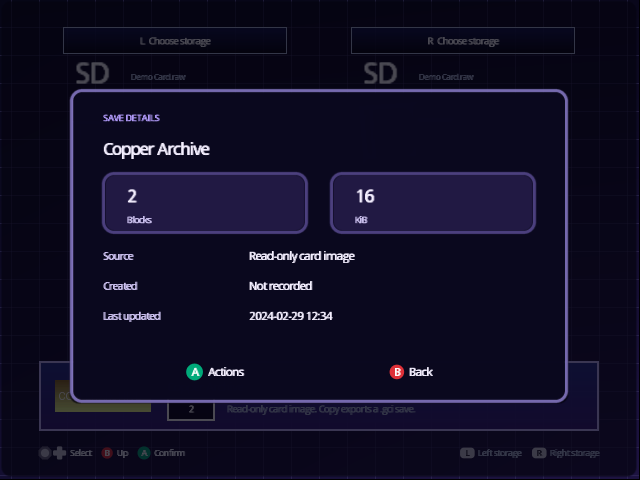
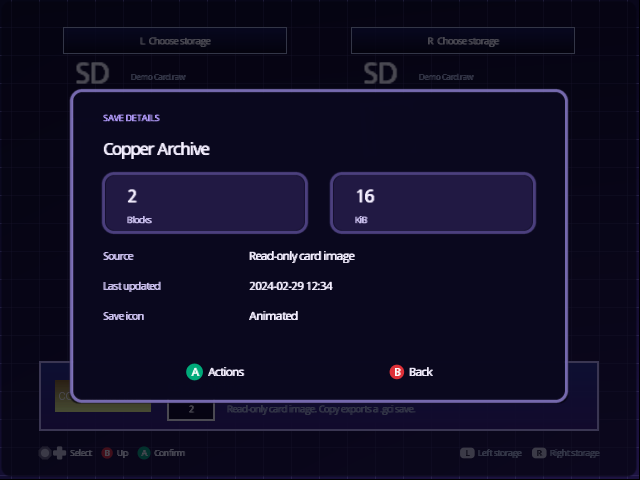
Refresh save details captures and integrated change notes

Changed region(s): [[0.375, 0.5625, 0.5312, 0.6875], [0.1562, 0.5625, 0.25, 0.6875]]

diff --git a/buildtools/ui/emulator/test_emulator.py b/buildtools/ui/emulator/test_emulator.py
@@ -737,8 +737,10 @@ class Screen(unittest.TestCase):
             self.assertFalse(run.same_text(*kib), shape + " actually distinguishes 16 from 8")
             dates = [run.text_mask(frame, run.SAVE_DETAILS_UPDATED_BOX) for frame in gray]
             self.assertFalse(run.same_text(*dates), "recorded date and Unknown differ")
-            created = [run.text_mask(frame, run.SAVE_DETAILS_CREATED_BOX) for frame in gray]
-            self.assertTrue(run.same_text(*created), "both creation values are Not recorded")
+            metadata = [run.text_mask(frame, run.SAVE_DETAILS_ICON_BOX) for frame in gray]
+            self.assertTrue(all(run.has_label(value) for value in metadata),
+                            "the save icon status must be visible in both native captures")
+            self.assertFalse(run.same_text(*metadata), "Animated and None stored differ")
 
     def test_actual_popup_value_only_boxes_reject_erasure_and_label_only_frames(self):
         from PIL import Image
@@ -746,8 +748,8 @@ class Screen(unittest.TestCase):
         fields = ((run.SAVE_DETAILS_BLOCKS_BOX, (122, 214, 302, 234), True),
                   (run.SAVE_DETAILS_SIZE_BOX, (350, 214, 528, 234), True),
                   (run.SAVE_DETAILS_SOURCE_BOX, (100, 244, 234, 270), False),
-                  (run.SAVE_DETAILS_CREATED_BOX, (100, 274, 234, 300), False),
-                  (run.SAVE_DETAILS_UPDATED_BOX, (100, 304, 234, 330), False))
+                  (run.SAVE_DETAILS_ICON_BOX, (100, 304, 234, 330), False),
+                  (run.SAVE_DETAILS_UPDATED_BOX, (100, 274, 234, 300), False))
         for name, wide in (("default-save-details-known.png", False),
                            ("default-save-details-unknown.png", False),
                            ("wide-save-details-known.png", True),
@@ -776,7 +778,7 @@ class Screen(unittest.TestCase):
             for value_box, _, numeric in fields:
                 predicate = run.has_save_number if numeric else run.has_label
                 self.assertFalse(predicate(run.text_mask(label_only, value_box)), (name, "labels only"))
-            for box in (run.SAVE_DETAILS_TITLE_BOX, run.SAVE_DETAILS_CREATED_BOX,
+            for box in (run.SAVE_DETAILS_TITLE_BOX, run.SAVE_DETAILS_ICON_BOX,
                         run.SAVE_DETAILS_UPDATED_BOX, run.SAVE_DETAILS_ACTIONS_BOX):
                 self.assertTrue(run.has_label(run.text_mask(gray, box)), (name, box))
             np.testing.assert_array_equal(rgb, original, "positive native capture remains untouched")

diff --git a/buildtools/ui/emulator/run.py b/buildtools/ui/emulator/run.py
@@ -125,8 +125,8 @@ SAVE_DETAILS_BLOCKS_BOX = (122, 178, 302, 212)
 SAVE_DETAILS_SOURCE_BOX = (246, 244, 540, 270)
 LIBRARY_SAVES_SUMMARY_BOX = (266, 204, 538, 224)
 LIBRARY_SAVES_UPDATED_BOX = (308, 224, 586, 241)
-SAVE_DETAILS_CREATED_BOX = (246, 274, 540, 300)
-SAVE_DETAILS_UPDATED_BOX = (246, 304, 540, 330)
+SAVE_DETAILS_ICON_BOX = (246, 304, 540, 330)
+SAVE_DETAILS_UPDATED_BOX = (246, 274, 540, 300)
 SAVE_DETAILS_ACTIONS_BOX = (104, 360, 536, 387)
 RAW_ICON_BOX = (68, 100, 120, 161)  # selected cell 0; excludes banner/info bar
 FOLDER_PAGE_TITLE_BOX = (48, 78, 300, 105)
@@ -1890,7 +1890,7 @@ class Route:
         self.check("A opens the save details panel", self.open_save_details())
         boxes = {"title": SAVE_DETAILS_TITLE_BOX, "blocks": SAVE_DETAILS_BLOCKS_BOX,
                  "size": SAVE_DETAILS_SIZE_BOX, "source": SAVE_DETAILS_SOURCE_BOX,
-                 "created": SAVE_DETAILS_CREATED_BOX, "updated": SAVE_DETAILS_UPDATED_BOX,
+                 "icon": SAVE_DETAILS_ICON_BOX, "updated": SAVE_DETAILS_UPDATED_BOX,
                  "actions": SAVE_DETAILS_ACTIONS_BOX}
         fields = {}
         for field, box in boxes.items():
@@ -1980,8 +1980,8 @@ class Route:
         unknown = self.save_details("virtual-cards-details-unknown")
         self.check("known and unknown save dates have different text",
                    not same_text(known["updated"], unknown["updated"]))
-        self.check("both saves report creation date as not recorded",
-                   same_text(known["created"], unknown["created"]))
+        self.check("animated and missing save icons have different status text",
+                   not same_text(known["icon"], unknown["icon"]))
         self.check("two-block and one-block save sizes have different text",
                    not same_text(known["blocks"], unknown["blocks"]))
         self.press("B")

diff --git a/docs/guide/memory-cards.md b/docs/guide/memory-cards.md
@@ -121,14 +121,14 @@ open Move, Copy and Erase. A dimmed action always explains why it can't be
 used.
 
 <p align="center">
-  <img alt="Copper Archive is the Save details headline. Separate metric cells show 2 Blocks and 16 KiB; aligned rows show Read-only card image, Created: Not recorded and Last updated: 2024-02-29 12:34. The footer has native A Actions and B Back button icons." src="images/memory-cards-details.png" width="640">
+  <img alt="Copper Archive is the Save details headline. Separate metric cells show 2 Blocks and 16 KiB; aligned rows show Read-only card image, Last updated: 2024-02-29 12:34 and Save icon: Animated. The footer has native A Actions and B Back button icons." src="images/memory-cards-details.png" width="640">
 </p>
 
 A save without a recorded update date shows **Unknown**. The dialog remains
 available when both columns hold read-only RAW images.
 
 <p align="center">
-  <img alt="Moonlit Lake’s Save details shows separate 1 Block and 8 KiB cells, Created: Not recorded and Last updated: Unknown." src="images/memory-cards-details-unknown.png" width="640">
+  <img alt="Moonlit Lake’s Save details shows separate 1 Block and 8 KiB cells, Last updated: Unknown and Save icon: None stored." src="images/memory-cards-details-unknown.png" width="640">
 </p>
 
 <p align="center">
@@ -136,10 +136,6 @@ available when both columns hold read-only RAW images.
 </p>
 
 A save on a physical memory card names its slot in **Source**.
-
-<p align="center">
-  <img alt="Copper Orchard’s details on simulated Slot A, with the Jet Black palette: 1 Block, 8 KiB, Source Slot A, Created Not recorded and Last updated 2026-09-21 14:13. Native A Actions and B Back icons remain visible." src="images/memory-cards-details-slot-a.png" width="640">
-</p>
 
 ## Move, copy and erase
 

diff --git a/AGENTS/journal.md b/AGENTS/journal.md
@@ -1,3 +1,21 @@
+## 2026-10-05 — Integrate save explanations, folder controls and installation guides
+
+Save details shows the recorded last-update date and the save icon's status.
+Animated, static and absent icons are distinguished, with clear messages for
+paused or unavailable previews. No creation date is invented: the save format
+has no separate field. Original animation decoding remains unchanged.
+
+Y on a Library folder opens its full path and color controls. A saves, B
+cancels and Y resets the color. Path identity includes its device prefix;
+settings writes preserve other preferences and restore prior colors on failure.
+The native folder route covers save, reopen, cancel and reset in all layouts.
+
+The README, walkthrough and package/release instructions now give exact loader
+filenames and card destinations, preservation, folder merging, first launch,
+updates and recovery. Focused host and sanitizer regressions pass. Fresh native
+save-details captures match the revised panel in both screen shapes; full
+integrated protected checks and console acceptance remain required.
+
 # Indigo development journal
 
 ## 2026-10-05 — Give Library folders a path and persistent color

diff --git a/CHANGELOG.md b/CHANGELOG.md
@@ -4,6 +4,25 @@ Versions follow [semantic versioning](https://semver.org/). Each release is a
 `vX.Y.Z` tag on `main`, and a release candidate before it is a `vX.Y.Z-rc.N`
 tag on `beta`. The newest changes are at the top until their release is named.
 
+## Unreleased
+
+### New
+
+- Press **Y Folder** on a Library folder to see its complete path and choose
+  a color. The color marks its card in every layout and is remembered by path.
+  Reset restores the default; B cancels changes.
+
+### Improved
+
+- Save details shows **Last updated** and **Save icon** instead of the empty
+  creation-date field. It distinguishes animated, static and missing icons,
+  previews that could not be loaded, and animations paused by UI Motion Off.
+  The GameCube save format does not record a separate creation date.
+- Installation starts with the boot method and card you use. The README,
+  walkthrough, release notes and ZIP instructions give exact file destinations,
+  card layouts, first-launch checks, updates and recovery steps, with clear
+  folder-merge instructions and preservation of existing boot files.
+
 ## v2.3.0 — Memory Cards, game folders and smoother motion
 
 ### New
